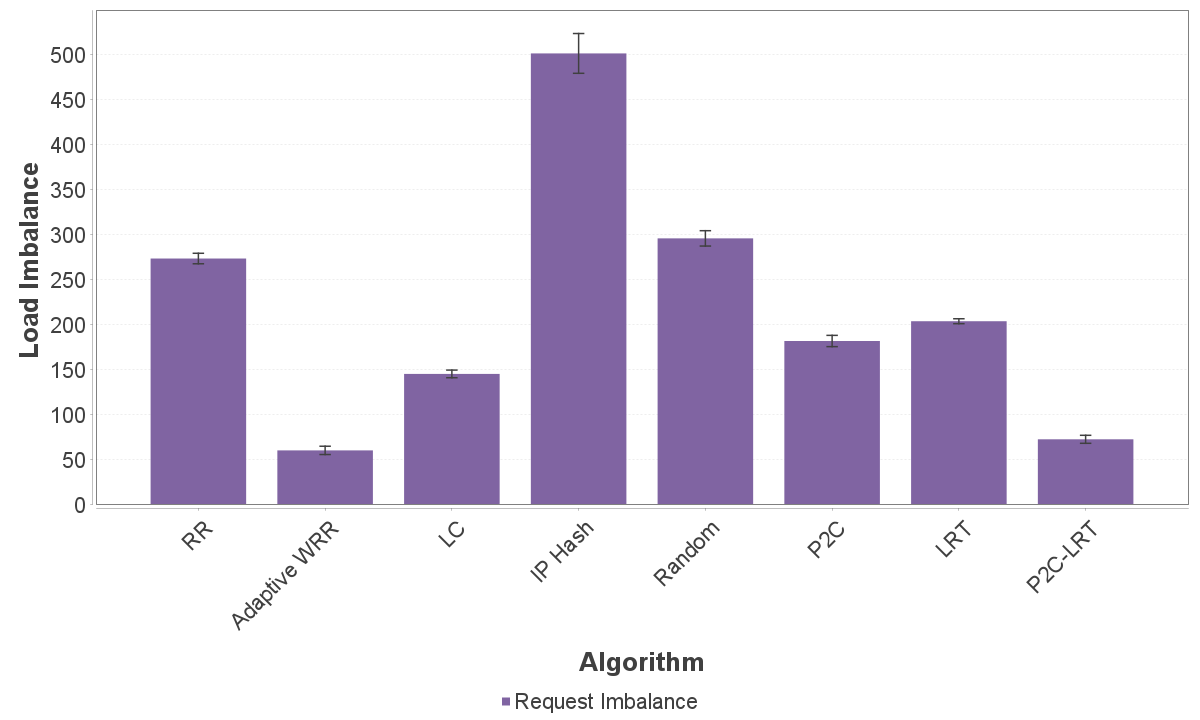
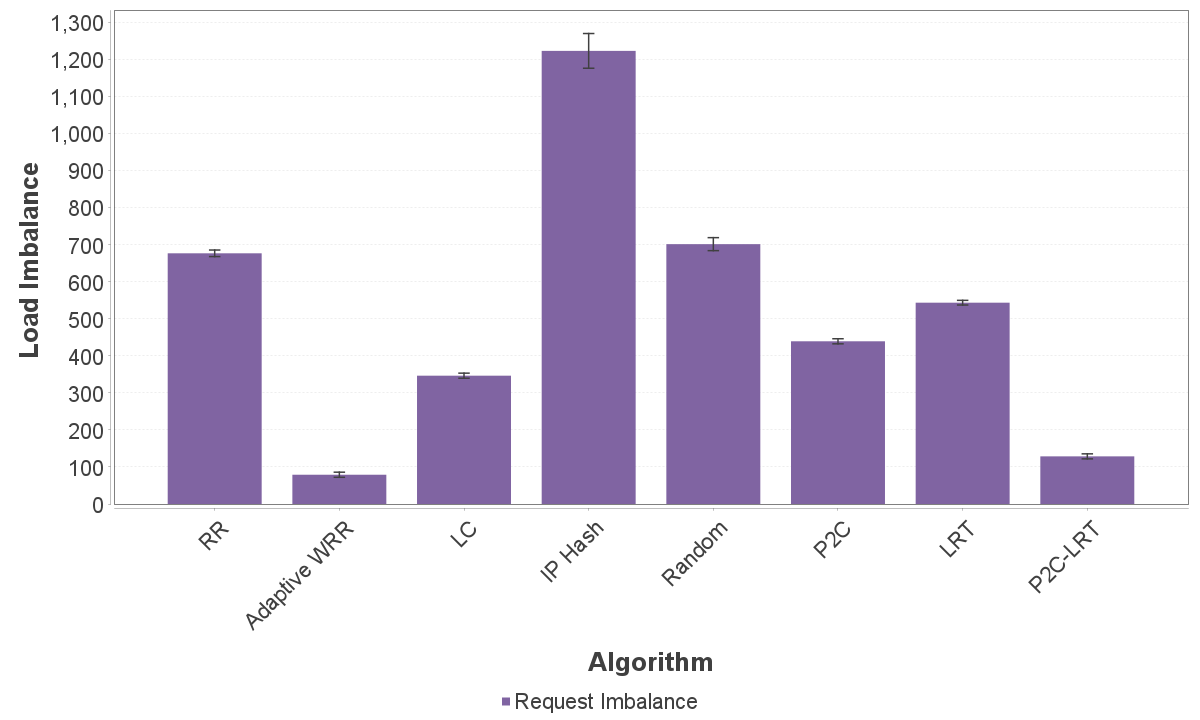
Changes

diff --git a/src/main/java/org/unibuc/core/SimulationConfig.java b/src/main/java/org/unibuc/core/SimulationConfig.java
@@ -31,52 +31,39 @@ public final class SimulationConfig {
 //    public static final int[] WRR_WEIGHTS = {8, 6, 4, 2, 1};
 //    public static final int P2C_LRT_CHOICES = 2;
 
-    /*
-     * true: reproduce the capacity-aware/oracle experiments. WRR uses the
-     * configured weights, while LRT and P2C-LRT receive cloudlet MI and VM MIPS.
-     * false: policies use only observed latency and active requests.
-     */
     public static final boolean USE_DIRECT_POLICY_INFORMATION = false;
-//
         private SimulationConfig() {}
 
-        // Physical infrastructure
-        // 32 hosts provide enough RAM and PEs for all 250 VMs.
         public static final int HOST_COUNT = 32;
         public static final int HOST_PES = 32;
         public static final long HOST_MIPS = 20_000;
-        public static final long HOST_RAM_MB = 65_536;       // 64 GB simulated
+        public static final long HOST_RAM_MB = 65_536;
         public static final long HOST_STORAGE_MB = 500_000;
         public static final long HOST_BW_MBPS = 10_000;
 
-        // Virtual machines
         public static final int VM_COUNT = 250;
         public static final int VM_PES = 2;
-
-        // Kept for compatibility; VM_MIPS_PER_VM is used by SimulationRunner
         public static final long VM_MIPS = 6_000;
 
         public static final long[] VM_MIPS_PER_VM = {
-                12_000, // high performance
+                12_000,
                 9_000,
                 6_000,
                 3_000,
-                1_500  // low performance
+                1_500
         };
 
-        public static final long VM_RAM_MB = 8_192;          // 8 GB simulated
+        public static final long VM_RAM_MB = 8_192;
         public static final long VM_STORAGE_MB = 40_000;
         public static final long VM_BW_MBPS = 1_000;
 
-        // Workload
-        public static final int CLOUDLET_COUNT = 4_000;
+        public static final int CLOUDLET_COUNT = 10_000;
         public static final int CLOUDLET_PES = 1;
         public static final long CLOUDLET_LENGTH_MIN_MI = 5_000;
         public static final long CLOUDLET_LENGTH_MAX_MI = 150_000;
         public static final long CLOUDLET_FILE_SIZE = 1_000;
         public static final long CLOUDLET_OUTPUT_SIZE = 1_000;
 
-        // Experiments
         public static final String OUTPUT_DIR = "results";
         public static final int RUNS_PER_ALGORITHM = 10;
         public static final int UNIQUE_SOURCE_IPS = 500;
@@ -84,15 +71,11 @@ public final class SimulationConfig {
         public static final long PROGRESS_HEARTBEAT_SECONDS = 30;
         public static final long MAX_NO_PROGRESS_SECONDS = 90;
 
-        // Poisson arrival process: approximately 5 requests/second
         public static final double FIRST_REQUEST_TIME = 1.0;
         public static final double MEAN_INTERARRIVAL_TIME_SECONDS = 0.20;
 
-        // Reproducibility
         public static final long DEFAULT_POLICY_SEED = 25616L;
 
-        // Previous capacity-aware WRR weights, retained for reference.
-        // The adaptive WRR now learns weights from observed latency and active requests.
         public static final int[] WRR_WEIGHTS = {8, 6, 4, 2, 1};
 
         public static final int P2C_LRT_CHOICES = 2;

diff --git a/src/main/java/org/unibuc/core/FinalLoadExperimentConfig.java b/src/main/java/org/unibuc/core/FinalLoadExperimentConfig.java
@@ -2,10 +2,7 @@ package org.unibuc.core;
 
 import java.util.List;
 
-/**
- * Configuration for the final progressive-load experiment.
- * The original SimulationConfig remains the source of infrastructure values.
- */
+
 public final class FinalLoadExperimentConfig {
     public static final int CLOUDLET_COUNT = 10_000;
     public static final int RUNS_PER_ALGORITHM = 5;
@@ -13,14 +10,6 @@ public final class FinalLoadExperimentConfig {
     public static final long BASE_WORKLOAD_SEED = 20_000L;
     public static final long BASE_POLICY_SEED = 30_000L;
 
-    /*
-     * Pessimistic sensitivity scenario for a centralized load balancer that
-     * queries VM state sequentially from a remote monitoring layer. This is
-     * deliberately not the cost of scanning an in-memory Java collection.
-     *
-     * selection overhead =
-     * base + inspected VMs * state read + comparisons * comparison cost
-     */
     public static final double SELECTION_BASE_OVERHEAD_MICROSECONDS = 100.0;
     public static final double VM_STATE_READ_OVERHEAD_MICROSECONDS = 100_000.0;
     public static final double VM_COMPARISON_OVERHEAD_MICROSECONDS = 50.0;
@@ -85,10 +74,6 @@ public final class FinalLoadExperimentConfig {
         return overheadMicroseconds / 1_000_000.0;
     }
 
-    /**
-     * Estimates total dispatcher latency using an M/D/1 queue:
-     * service time + waiting time caused by serialized selection decisions.
-     */
     public static double estimatedSelectionLatencySeconds(
             String algorithmName,
             double requestsPerSecond) {

diff --git a/src/main/java/org/unibuc/metrics/AggregatedMetrics.java b/src/main/java/org/unibuc/metrics/AggregatedMetrics.java
@@ -4,15 +4,6 @@ import org.apache.commons.math3.stat.descriptive.DescriptiveStatistics;
 
 import java.util.List;
 
-/**
- * Aggregates MetricsCollector results across multiple simulation runs
- * for a single algorithm and computes mean ± standard deviation for
- * every metric.
- *
- * This is what gives your dissertation statistical credibility —
- * reporting mean ± σ across N runs proves results are stable and
- * not artefacts of one particular random seed.
- */
 public class AggregatedMetrics {
 
     private final String algorithmName;
@@ -46,7 +37,6 @@ public class AggregatedMetrics {
         }
     }
 
-    // ── Getters ───────────────────────────────────────────────────────────────
 
     public String getAlgorithmName() { return algorithmName; }
     public int    getRuns()          { return runs; }
@@ -82,7 +72,6 @@ public class AggregatedMetrics {
     public double getCompletedRequestsStdDev() { return completedRequests.getStandardDeviation(); }
     public double getCompletedRequestsMin()    { return completedRequests.getMin(); }
 
-    // ── Console output ────────────────────────────────────────────────────────
 
     @Override
     public String toString() {

diff --git a/src/main/java/org/unibuc/util/Workload.java b/src/main/java/org/unibuc/util/Workload.java
@@ -3,7 +3,6 @@ package org.unibuc.util;
 import org.cloudsimplus.cloudlets.Cloudlet;
 import org.cloudsimplus.cloudlets.CloudletSimple;
 import org.cloudsimplus.utilizationmodels.UtilizationModel;
-import org.cloudsimplus.utilizationmodels.UtilizationModelDynamic;
 import org.cloudsimplus.utilizationmodels.UtilizationModelFull;
 import org.unibuc.core.SimulationConfig;
 
@@ -43,10 +42,6 @@ public class Workload {
             cloudlet.setUtilizationModelBw(UtilizationModel.NULL);
 
             /*
-             * Previous RAM/BW utilization retained for reference. Under heavy
-             * skew, queued cloudlets reserved simulated bandwidth and could
-             * prevent the final load experiment from completing:
-             *
              * cloudlet.setUtilizationModelRam(new UtilizationModelDynamic(0.01));
              * cloudlet.setUtilizationModelBw(new UtilizationModelDynamic(0.01));
              */

diff --git a/src/main/java/org/unibuc/algorithms/P2CPolicy.java b/src/main/java/org/unibuc/algorithms/P2CPolicy.java
@@ -9,7 +9,6 @@ import java.util.Map;
 import java.util.Random;
 import java.util.concurrent.ConcurrentHashMap;
 
-//Power Of 2 Choices Policy
 public class P2CPolicy implements LoadBalancingPolicy {
     private final Random random = new Random();
     private long seed;
@@ -27,7 +26,6 @@ public class P2CPolicy implements LoadBalancingPolicy {
         if (availableVms.isEmpty()) throw new IllegalStateException("No VMs available");
         if (availableVms.size() == 1) return availableVms.getFirst();
 
-        // Pick two distinct VMs at random
         int idxA = random.nextInt(availableVms.size());
         int idxB;
         do {

diff --git a/src/main/java/org/unibuc/algorithms/ObservedBackendStats.java b/src/main/java/org/unibuc/algorithms/ObservedBackendStats.java
@@ -6,10 +6,6 @@ import java.util.HashMap;
 import java.util.List;
 import java.util.Map;
 
-/**
- * Stores only information that a real load balancer can observe online.
- * It deliberately does not read VM MIPS or cloudlet length.
- */
 final class ObservedBackendStats {
     private static final double DEFAULT_LATENCY_SECONDS = 1.0;
     private static final double MIN_LATENCY_SECONDS = 1.0e-6;
@@ -55,7 +51,6 @@ final class ObservedBackendStats {
     }
 
     double score(Vm vm) {
-        // score = arithmetic mean latency * current load multiplier
         return averageLatencySeconds(vm) * (activeRequests(vm) + 1.0);
     }
 

diff --git a/src/main/java/org/unibuc/algorithms/LeastReponseTimePolicy.java b/src/main/java/org/unibuc/algorithms/LeastReponseTimePolicy.java
@@ -127,10 +127,6 @@ public class LeastReponseTimePolicy implements LoadBalancingPolicy {
     }
 
     /*
-     * Previous capacity-aware implementation retained for comparison.
-     * It used exact cloudlet MI and VM MIPS, information that is no longer
-     * available to the active implementation.
-     *
      * private static final double ALPHA = 0.5;
      * private static final double INITIAL_EMA_MS = 100.0;
      * private final Map<Long, Integer> activeConnections = new ConcurrentHashMap<>();

diff --git a/src/main/java/org/unibuc/algorithms/P2CLRTPolicy.java b/src/main/java/org/unibuc/algorithms/P2CLRTPolicy.java
@@ -170,9 +170,6 @@ public class P2CLRTPolicy implements LoadBalancingPolicy {
     }
 
     /*
-     * Previous capacity-aware implementation retained for comparison.
-     * It estimated queued service time from exact cloudlet MI and VM MIPS.
-     *
      * private static final double ALPHA = 0.5;
      * private static final double INITIAL_EMA_MS = 100.0;
      * private final int D;

diff --git a/src/main/java/org/unibuc/core/SimulationRunner.java b/src/main/java/org/unibuc/core/SimulationRunner.java
@@ -246,10 +246,6 @@ public class SimulationRunner {
         );
     }
 
-    /**
-     * Reuses the original simulation setup for additional experiments without
-     * changing the behavior of the existing main experiment.
-     */
     public static MetricsCollector runSimulationForExperiment(
             LoadBalancingPolicy policy,
             Workload workload) {

diff --git a/src/main/java/org/unibuc/core/FinalLoadExperimentRunner.java b/src/main/java/org/unibuc/core/FinalLoadExperimentRunner.java
@@ -178,7 +178,6 @@ public class FinalLoadExperimentRunner {
                     ));
                 }
 
-                // Checkpoint after each algorithm, including partial load levels.
                 exporter.export(allResults, failures);
                 System.out.printf(
                         "  Checkpoint saved after %s at load %s.%n",

diff --git a/src/main/java/org/unibuc/algorithms/WeightedRoundRobinPolicy.java b/src/main/java/org/unibuc/algorithms/WeightedRoundRobinPolicy.java
@@ -115,9 +115,6 @@ public class WeightedRoundRobinPolicy implements LoadBalancingPolicy {
     }
 
     /*
-     * Previous static, capacity-aware implementation retained for comparison.
-     * Its weights were configured in the same ratio as VM MIPS values.
-     *
      * private final int[] weights;
      * private int[] currentWeights;
      *
